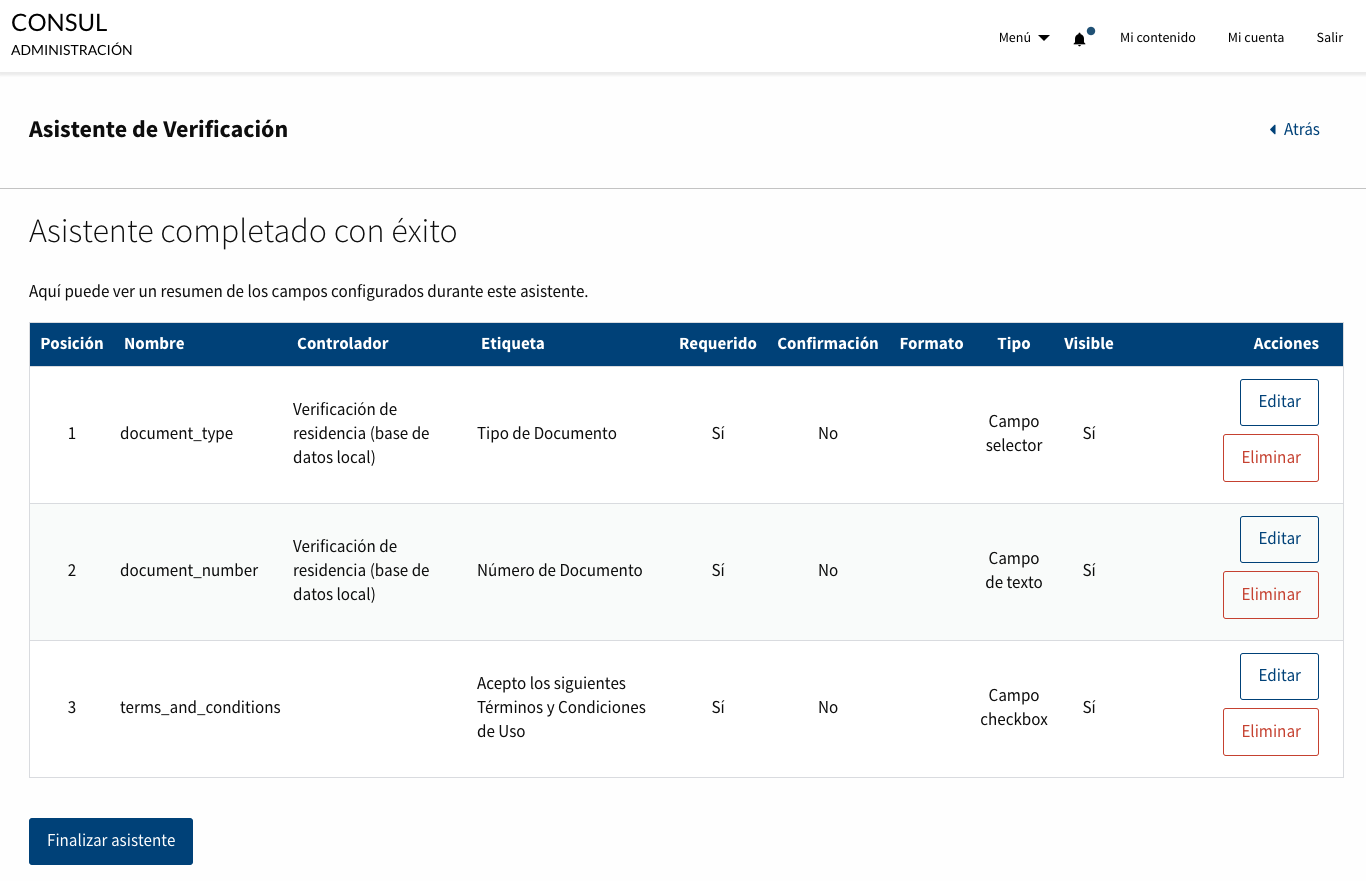
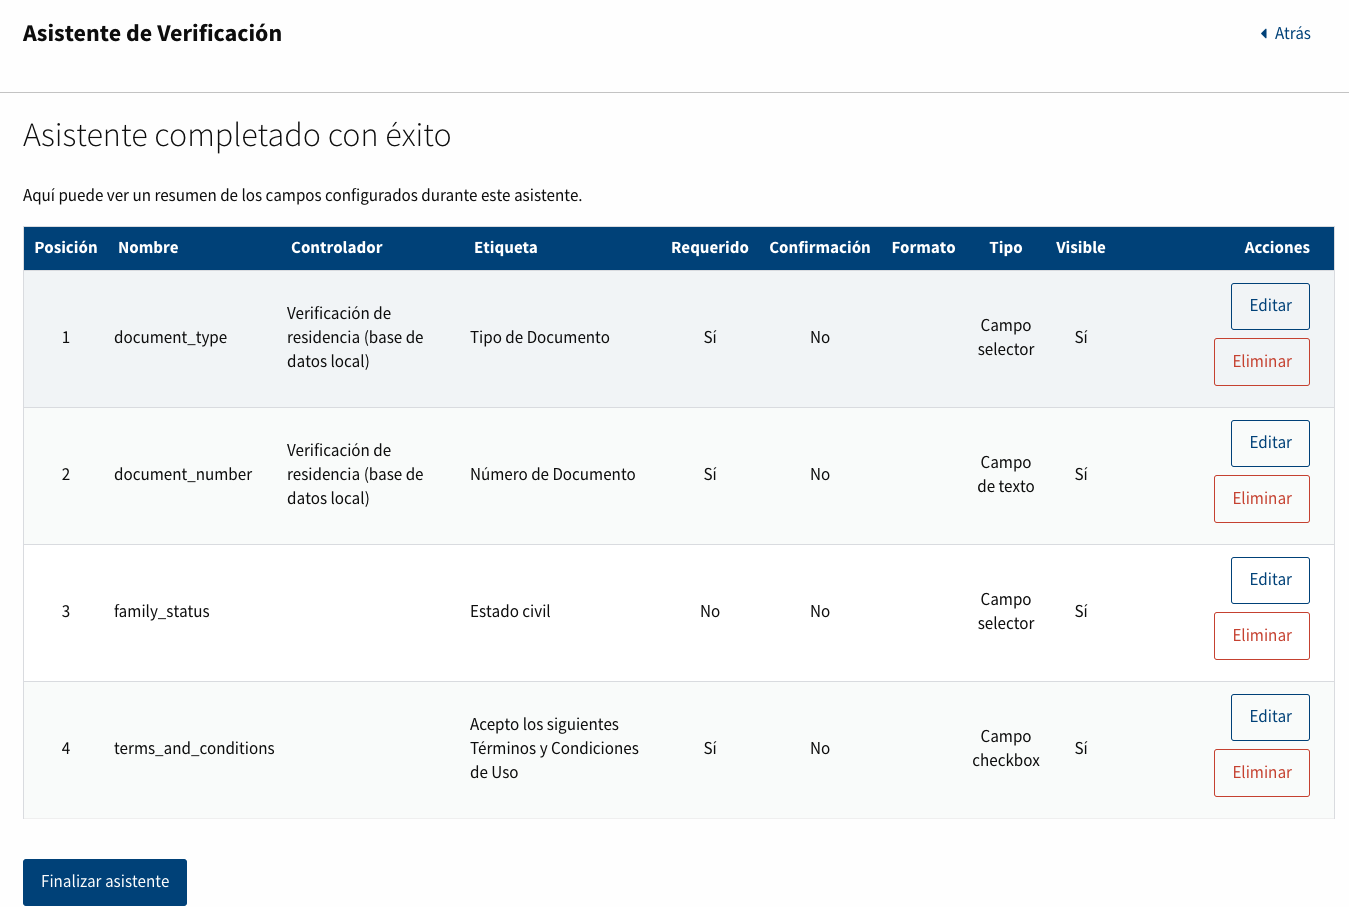
Add Examples

diff --git a/es/installation/basic_configuration.md b/es/installation/basic_configuration.md
@@ -145,7 +145,7 @@ Este proceso envía un sms al número definido por el usuario con un código de 
 En este podrá ver un resumen de los campos configurados durante el asistente.
 
 ### Ejemplos de uso
-Ejemplo 1: Institución que quiere crear un proceso de verificación básico por censo remoto con una checkbox para aceptar los terminos y condiciones de uso.
+Ejemplo 1: Institución que quiere crear un proceso de verificación básico por censo remoto con un checkbox para aceptar los terminos y condiciones de uso.
 - Paso 1: Activar "Proceso de verificación de usuario personalizable" y desactivar "Omitir verificación de usuarios"
 - Paso 2: Activar "Verificar un usuario contra el Censo Remoto SOAP" y desactivar "Verificar un usuario contra el Censo Local" y "Verificar el teléfono de un usuario por SMS"
 - Paso 3: En este paso necesitamos definir los campos que queremos mostrar en el formulario:
@@ -183,7 +183,7 @@ Ejemplo 1: Institución que quiere crear un proceso de verificación básico por
 
   Para crear el campo :tos
   - En el paso "Formulario de verificación de usuarios" clicaremos sobre el botón "Crear campo".
-    - Etiqueta: "Acepto los siguientes Terminos y Condiciones de Uso"
+    - Etiqueta: "Acepto los siguientes Términos y Condiciones de Uso"
     - Nombre: "terms_and_conditions"
     - Posición: "3"
     - Requerido?: Lo marcaremos para que sea obligatorio introducirlo por el usuario.
@@ -268,7 +268,7 @@ En este último paso veremos un resumen de todos los campos creados y sus asocia
 Una vez definido todo nuestro proceso de verificación, podemos ver el resultado en la parte pública cuando un usuario quiere verifcarse (verification/process/new):
 ![Process new](../../img/verification_process/example-1-process-new-es.png)
 
-Ejemplo 2: Institución que quiere crear un proceso de verificación básico por censo local con una checkbox para aceptar los terminos y condiciones de uso y un campo no obligatorio con alguna información que quiera solicitar la institución, pero que no queremos que bloqueé la verificación en caso de no ser informado por el usuario.
+Ejemplo 2: Institución que quiere crear un proceso de verificación básico por censo local con un checkbox para aceptar los terminos y condiciones de uso y un campo no obligatorio con alguna información que quiera solicitar la institución, pero que no queremos que bloqueé la verificación en caso de no ser informado por el usuario.
 - Paso 1: Activar "Proceso de verificación de usuario personalizable" y desactivar "Omitir verificación de usuarios"
 - Paso 2: Activar "Verificar un usuario contra el Censo Local" y desactivar "Verificar un usuario contra el Censo Remoto SOAP" y "Verificar el teléfono de un usuario por SMS"
 - Paso 3: En este paso necesitamos definir los campos que queremos mostrar en el formulario:
@@ -285,7 +285,7 @@ Ejemplo 2: Institución que quiere crear un proceso de verificación básico por
   Para crear el campo :family_status
   - En el paso "Formulario de verificación de usuarios" clicaremos sobre el botón "Crear campo".
       - Etiqueta: "Estado civil"
-      - Ayuda: Este campo no es obligatorio pero puede resultar de utilidad para elaborar estadísticas para la insitución
+      - Ayuda: Este campo no es obligatorio pero puede resultar de utilidad para elaborar estadísticas para la institución
       - Nombre: "family_status"
       - Posición: "3"
       - Requerido?: Lo dejaremos desmarcado para que no sea obligatorio.
@@ -321,15 +321,185 @@ Este paso 4 para el Censo Local servirá para asociar los campos necesarios a es
       - Clicamos en el botón comentado "Asociar campo a este proceso de verificación"
       - En el selector de campo de verificación, seleccionamos :document_number
 
-  Una vez hemos asociado los dos campos necesarios y rellenada la información referente a configurar la conexión al censo local deberíamos ver esta pantalla:
+  Una vez hemos asociado los dos campos necesarios deberíamos ver esta pantalla:
   ![Step 4](../../img/verification_process/example-2-step-4-es.png)
 
 - Paso 5: Asistente completado con éxito! En este ejemplo llegamos directamente a esta pantalla porque solo hemos activado un método de verificación, si hubiésemos activado más métodos, los siguientes pasos hubiesen sido asociar campos a cada uno de esos métodos de verificación.
 En este último paso veremos un resumen de todos los campos creados y sus asociaciones con los diferentes métodos de verificación:
 ![Final Step](../../img/verification_process/example-2-final-step-es.png)
 
+Una vez definido todo nuestro proceso de verificación, podemos ver el resultado en la parte pública cuando un usuario quiere verificarse (verification/process/new):
+![Process new](../../img/verification_process/example-2-process-new-es.png)
+
+Ejemplo 3: Institución que quiere crear un proceso de verificación básico por SMS con un checkbox para aceptar los terminos y condiciones de uso.
+- Paso 1: Activar "Proceso de verificación de usuario personalizable" y desactivar "Omitir verificación de usuarios"
+- Paso 2: Activar "Verificar el teléfono de un usuario por SMS" y desactivar "Verificar un usuario contra el Censo Remoto SOAP" y "Verificar un usuario contra el Censo Local"
+- Paso 3: En este paso necesitamos definir los campos que queremos mostrar en el formulario:
+  - Un campo para que el usuario pueda introducir su teléfono (:phone)
+  - Un campo para el checkbox de términos y condiciones de uso (:tos)
+
+  Para crear el campo :phone
+  - En el paso "Formulario de verificación de usuarios" clicaremos sobre el botón "Crear campo".
+      - Etiqueta: "Teléfono"
+      - Nombre: "phone"
+      - Posición: "3"
+      - Requerido?: Lo dejaremos desmarcado para que no sea obligatorio.
+      - Requiere campo de confirmación?: En este caso sí que nos interesa asegurarnos de que la aplicación enviará un sms al teléfono correcto, así que marcaremos este checkbox para que nos cree un campo de confirmación adicional.
+      - Visualizar el campo?: Por defecto este campo está activo, así que mantendremos la configuración por defecto, para que se muestre al usuario en su formulario de verificación.
+      - Tipo del campo: Seleccionaremos "Campo de Texto"
+
+  Para crear el campo :tos
+  - Igual que en el ejemplo 1, pero en la posición 2
+
+  Después de haber creado los 3 campos en este paso 3 deberíamos estar viendo en el asistente esta pantalla:
+  ![Step 3](../../img/verification_process/example-3-step-3-es.png)
+
+- Paso 4: Al haber activado en el paso 2 solo el método de verificación "Verificar el teléfono de un usuario por SMS", este paso 4 será la forma de asociar el campo creado(:phone) a este método de verificación.
+Este paso 4 consta de 2 partes, la primera definir la conexión al servicio de SMS y la segunda asociar los campos necesarios a este método de verificación:
+  - Configurar la conexión al servicio de SMS: Para rellenar esta sección será necesario un perfil técnico que entienda y tenga acceso al servicio de SMS que se pretende utilizar. Para utilizar esta funcionalidad debe revisar 'consul/lib/sms_api.rb' y ver que se adapta a sus necesidades.
+    - SMS Endpoint: Nombre del host donde se encuentra el servicio de SMS
+    - Usuario para el servicio de SMS: Usuario para el servicio de SMS.
+    - Password para el servicio de SMS: Password para el servicio de SMS.
+
+  - Asociar campos a este proceso de verificación: En este ejemplo hemos creado 2 campos, pero solo 1 de ellos lo necesitamos enviar un sms al usuario (:phone). Así que vamos a proceder a asociarlos con el botón que se encuentra en la parte superior derecha "Asociar campo a este proceso de verificación".
+    - Asociar :phone
+      - Clicamos en el botón comentado "Asociar campo a este proceso de verificación"
+      - En el selector de campo de verificación, seleccionamos :phone
+      - Clicamos en Guardar, que nos llevará otra vez a la pantalla anterior para poder volver a asociar otro campo a este método de verificación
+
+  Una vez hemos asociado los dos campos necesarios y rellenada la información referente a configurar la conexión al servicio de SMS deberíamos ver esta pantalla:
+  ![Step 4](../../img/verification_process/example-3-step-4-es.png)
+
+- Paso 5: Asistente completado con éxito! En este ejemplo llegamos directamente a esta pantalla porque solo hemos activado un método de verificación, si hubiésemos activado más métodos, los siguientes pasos hubiesen sido asociar campos a cada uno de esos métodos de verificación.
+En este último paso veremos un resumen de todos los campos creados y sus asociaciones con los diferentes métodos de verificación:
+![Final Step](../../img/verification_process/example-3-final-step-es.png)
+
+Una vez definido todo nuestro proceso de verificación, podemos ver el resultado en la parte pública cuando un usuario quiere verificarse (verification/process/new):
+![Process new](../../img/verification_process/example-3-process-new-es.png)
+
+Ejemplo 4: Institución que quiere crear un proceso de verificación avanzado por censo remoto con una validación de la edad mínima requerida para participar y permitir actualizar la geolocalización de un usuario y con un checkbox para aceptar los terminos y condiciones de uso.
+- Paso 1: Activar "Proceso de verificación de usuario personalizable" y desactivar "Omitir verificación de usuarios"
+- Paso 2: Activar "Verificar un usuario contra el Censo Remoto SOAP" y desactivar "Verificar un usuario contra el Censo Local" y "Verificar el teléfono de un usuario por SMS"
+- Paso 3: En este paso necesitamos definir los campos que queremos mostrar en el formulario:
+  - Los campos que queremos enviar al censo remoto. Un ejemplo de datos que puede necesitar un WebService de censo (:document_type y :document_number)
+  - Un campo para el checkbox de términos y condiciones de uso (:tos)
+
+  Para crear el campo :document_type
+  - En el paso "Formulario de verificación de usuarios" clicaremos sobre el botón "Crear campo".
+    - Etiqueta: "Tipo de Documento"
+    - Nombre: "document_type"
+    - Posición: "1"
+    - Requerido?: Lo marcaremos para que sea obligatorio introducirlo por el usuario.
+    - Requiere campo de confirmación?: En este caso no queremos que nos duplique el campo para confirmarlo.
+    - Visualizar el campo?: Por defecto este campo está activo, así que mantendremos la configuración por defecto, para que se muestre al usuario en su formulario de verificación.
+    - Tipo del campo: Seleccionaremos "campo selector" y clicaremos en el botón que nos aparece "Añadir nueva opción para el selector". Esto nos ofrecerá unos campos "Etiqueta" y "Valor" que serán las opciones que queremos mostrar al usuario en este campo.
+    Un ejemplo sería añadir 2 opciones:
+      - Primera opción:
+        - Etiqueta: DNI
+        - Valor: 1
+      - Segunda opción:
+        - Etiqueta: Pasaporte
+        - Valor: 2
+  Una vez rellenados todos estos campos para el :document_type, clicaremos en el botón de "Crear campo". Esto nos redirigirá a la pantalla anterior donde veremos en el listado de campos que ya se ha creado. Y podremos clicar otra vez en "Crear campo" para añadir el siguiente campo que necesitamos en este ejemplo, que sería el "document_number". Como se puede observar en este listado, aparece el campo que acabamos de crear pero en la columna de "Controlador" aparece sin valor, esto es porque aún no lo hemos asignado a ningún proceso de verificación. Primero creamos todos los campos que necesitamos y luego siguiendo el asistente ya asignaremos cada campo a uno o mas controladores/metodos de verificación.
+
+  Para crear el campo :document_number
+  - En el paso "Formulario de verificación de usuarios" clicaremos sobre el botón "Crear campo".
+    - Etiqueta: "Número de Documento"
+    - Nombre: "document_number"
+    - Posición: "2"
+    - Requerido?: Lo marcaremos para que sea obligatorio introducirlo por el usuario.
+    - Requiere campo de confirmación?: En este caso no queremos que nos duplique el campo para confirmarlo.
+    - Visualizar el campo?: Por defecto este campo está activo, así que mantendremos la configuración por defecto, para que se muestre al usuario en su formulario de verificación.
+    - Tipo del campo: Mantendremos el valor por defecto "Campo de texto".
+  Una vez rellenados todos estos campos para el :document_number, clicaremos en el botón de "Crear campo". Esto nos redirigirá a la pantalla anterior donde veremos en el listado de campos que ya se ha creado. En este punto deberíamos ver tanto el registro del :document_type como el registro del :document_number que acabamos de crear. Ahora continuamos con el último campo que nos falta para crear el proceso de verificación definido en el ejemplo.
+
+  Para crear el campo :tos
+  - En el paso "Formulario de verificación de usuarios" clicaremos sobre el botón "Crear campo".
+    - Etiqueta: "Acepto los siguientes Términos y Condiciones de Uso"
+    - Nombre: "terms_and_conditions"
+    - Posición: "3"
+    - Requerido?: Lo marcaremos para que sea obligatorio introducirlo por el usuario.
+    - Requiere campo de confirmación?: En este caso no queremos que nos duplique el campo para confirmarlo.
+    - Visualizar el campo?: Por defecto este campo está activo, así que mantendremos la configuración por defecto, para que se muestre al usuario en su formulario de verificación.
+    - Tipo del campo: Seleccionaremos "Campo checkbox". Una vez seleccionado nos aparecerá la posibilidad de asociar este checkbox a una página propia de la aplicación donde podremos definir esos términos y condiciones de uso. Este campo "Link que se mostrará al lado de un campo del tipo checkbox" se debe rellenar con el "slug" de la nueva página que podemos crear a través de la sección de administración "Contenido del sitio > Personalizar páginas". En este caso si no se ha creado antes, crearemos la página con el slug que indiquemos en este campo al finalizar el asistente. En este ejemplo el valor con el que vamos a rellenar este campo adicional del link será: "terms-and-conditions"
+  Una vez rellenados todos estos campos para el :tos, clicaremos en el botón de "Crear campo". Esto nos redirigirá a la pantalla anterior donde veremos en el listado de campos que ya se ha creado. En este punto deberíamos ver tanto el registro del :document_type, :document_number y el :tos que acabamos de crear.
+
+  Después de haber creado los 3 campos en este paso 3 deberíamos estar viendo en el asistente esta pantalla:
+  ![Step 3](../../img/verification_process/example-1-step-3-es.png)
+
+- Paso 4: Al haber activado en el paso 2 solo el método de verificación "Verificar un usuario contra el Censo Remoto SOAP", este paso 4 será la forma de asociar los campos creados(:document_type y :document_number) a este método de verificación.
+Este paso 4 consta de 2 partes, la primera definir la conexión al censo remoto y la segunda asociar los campos necesarios a este método de verificación:
+  - Configurar la conexión al censo remoto: Para rellenar esta sección será necesario un perfil técnico que entienda y tenga acceso a los servicios de Censo que se quieren utilizar.
+    - Endpoint: Nombre del host donde se encuentra el servicio del censo (wsdl), por ejemplo: "http://intranet.institución.es:8888/services/CensoService?wsdl"
+    - Nombre del método de la petición: Nombre del método que acepta el WebService del Censo del Ayuntamiento, per ejemplo: "get_residents"
+    - Estructura de la petición: Para rellenar este campo debemos tener claro que estructura de petición tiene nuestro WebService. Para este ejemplo supondremos que nuestro petición tiene la siguiente estructura:
+    { request: { static_field: , document_type: , document_number: } }
+    La forma correcta de introducir esta estructura sería la siguiente:
+    { "request": { "static_field": "1", "document_type": "nil", "document_number": "nil" } }
+    Como podemos observar, los campos estáticos que siempre se envían con el mismo valor ya se dejan con el valor necesario, y los campos dinámicos que se enviaran desde el formulario de verificación es necesarios dejarlos como un string (vease :document_type y :document_number).
+    - Condición para detectar una respuesta válida: Que ruta de la respuesta tiene que venir informado para considerarse una respuesta válida. Para rellenar este campo deberemos conocer las respuestas de nuestro WebService y determinar que campo se envia informado cuando la respuesta es válida, que no es enviado cuando la respuesta es inválida. Para entender este campo vamos a poner dos ejemplos de respuestas:
+    Respuesta válida:
+    {
+      get_habita_datos_response: {
+        get_habita_datos_return: {
+          datos_habitante: {
+            item: {
+              fecha_nacimiento_string: "31-12-1980",
+              identificador_documento: "12345678Z",
+              descripcion_sexo: "Varón",
+              nombre: "José",
+              apellido1: "García"
+            }
+          },
+          datos_vivienda: {
+            item: {
+              codigo_postal: "28013",
+              codigo_distrito: "01"
+            }
+          }
+        }
+      }
+    }
+
+    Respuesta inválida:
+    {
+      get_habita_datos_response: {
+        get_habita_datos_return: {
+          datos_habitante: {},
+          datos_vivienda: {}
+        }
+      }
+    }
+    Como podemos observar en estos dos ejemplos de respuesta, el campo que llega informado en una respuesta válida y que no llega en una respuesta inválida sería el campo "item" dentro de "datos habitante". Para poder utilizar este campo correctamente si queremos que el campo "item" sea el campo con el que detectaremos si una respuesta es válida o inválida lo deberíamos rellenar con el siguiente texto: "get_habita_datos_response.get_habita_datos_return.datos_habitante.item".
+
+  - Asociar campos a este proceso de verificación: En este ejemplo hemos creado 3 campos, pero solo 2 de ellos los necesitamos para montar la estructura y hacer la petición al censo remoto (:document_type y :document_number). Así que vamos a proceder a asociarlos con el botón que se encuentra en la parte superior derecha "Asociar campo a este proceso de verificación".
+    - Asociar :document_type
+      - Clicamos en el botón comentado "Asociar campo a este proceso de verificación"
+      - En el selector de campo de verificación, seleccionamos :document_type
+      - Ahora veremos en la pantalla como hay dos campos nuevos que podemos rellenar "Ruta del campo en la solicitud" y "Ruta del campo en la respuesta". En el ejemplo que hemos planteado, solo necesitamos rellenar correctamente la ruta del campo en la solicitud ya que no hemos creado ningún campo específico que queremos validar en la respuesta (esto lo veremos en otro ejemplo).
+      Rellenar el campo "Ruta del campo en la solicitud" correctamente debemos conocer la estructura que hemos definido y rellenarlo de la misma manera que hemos rellenado el campo "Condición para detectar una respuesta válida", es decir tenemos que rellenarlo con la ruta del campo que estamos asociando en la estructura de la petición. Recordamos que la estructura que hemos definido en este ejemplo es:
+      { "request": { "static_field": "1", "document_type": "nil", "document_number": "nil" } }
+      Por lo que el campo "Ruta del campo en la solicitud" en este caso lo rellenaremos con "request.document_type". De esta manera la aplicación será capaz de montar una petición al endpoint definido, con el nombre del método definido, con la estructura definida y sustituirá el valor de "document_type": "nil" por "document_type": "el valor introducido por el usuario en el formulario de verificación en este campo".
+      - Clicamos en Guardar, que nos llevará otra vez a la pantalla anterior para poder volver a asociar otro campo a este método de verificación
+
+    - Asociar :document_number
+      - Clicamos en el botón comentado "Asociar campo a este proceso de verificación"
+      - En el selector de campo de verificación, seleccionamos :document_number
+      - Ahora veremos en la pantalla como hay dos campos nuevos que podemos rellenar "Ruta del campo en la solicitud" y "Ruta del campo en la respuesta". En el ejemplo que hemos planteado, solo necesitamos rellenar correctamente la ruta del campo en la solicitud ya que no hemos creado ningún campo específico que queremos validar en la respuesta (esto lo veremos en otro ejemplo).
+      Rellenar el campo "Ruta del campo en la solicitud" correctamente debemos conocer la estructura que hemos definido y rellenarlo de la misma manera que hemos rellenado el campo "Condición para detectar una respuesta válida", es decir tenemos que rellenarlo con la ruta del campo que estamos asociando en la estructura de la petición. Recordamos que la estructura que hemos definido en este ejemplo es:
+      { "request": { "static_field": "1", "document_type": "nil", "document_number": "nil" } }
+      Por lo que el campo "Ruta del campo en la solicitud" en este caso lo rellenaremos con "request.document_number". De esta manera la aplicación será capaz de montar una petición al endpoint definido, con el nombre del método definido, con la estructura definida y sustituirá el valor de "document_number": "nil" por "document_number": "el valor introducido por el usuario en el formulario de verificación en este campo".
+
+  Una vez hemos asociado los dos campos necesarios y rellenada la información referente a configurar la conexión al censo remoto deberíamos ver esta pantalla:
+  ![Step 4](../../img/verification_process/example-1-step-4-es.png)
+
+- Paso 5: Asistente completado con éxito! En este ejemplo llegamos directamente a esta pantalla porque solo hemos activado un método de verificación, si hubiésemos activado más métodos, los siguientes pasos hubiesen sido asociar campos a cada uno de esos métodos de verificación.
+En este último paso veremos un resumen de todos los campos creados y sus asociaciones con los diferentes métodos de verificación:
+![Final Step](../../img/verification_process/example-1-final-step-es.png)
+
 Una vez definido todo nuestro proceso de verificación, podemos ver el resultado en la parte pública cuando un usuario quiere verifcarse (verification/process/new):
 ![Process new](../../img/verification_process/example-1-process-new-es.png)
+
 
 ## Parámetros de la configuración global
 En el menú lateral encontrarás la opción "Configuración" y posteriormente el submenú "Configuración global". Aquí encontrarás muchos parámetros interesantes, pero por el momento te recomendamos definir algunos de los más básicos. Más adelante cuando estés más familiarizado con la herramienta podrás volver a configurar otros parámetros:
